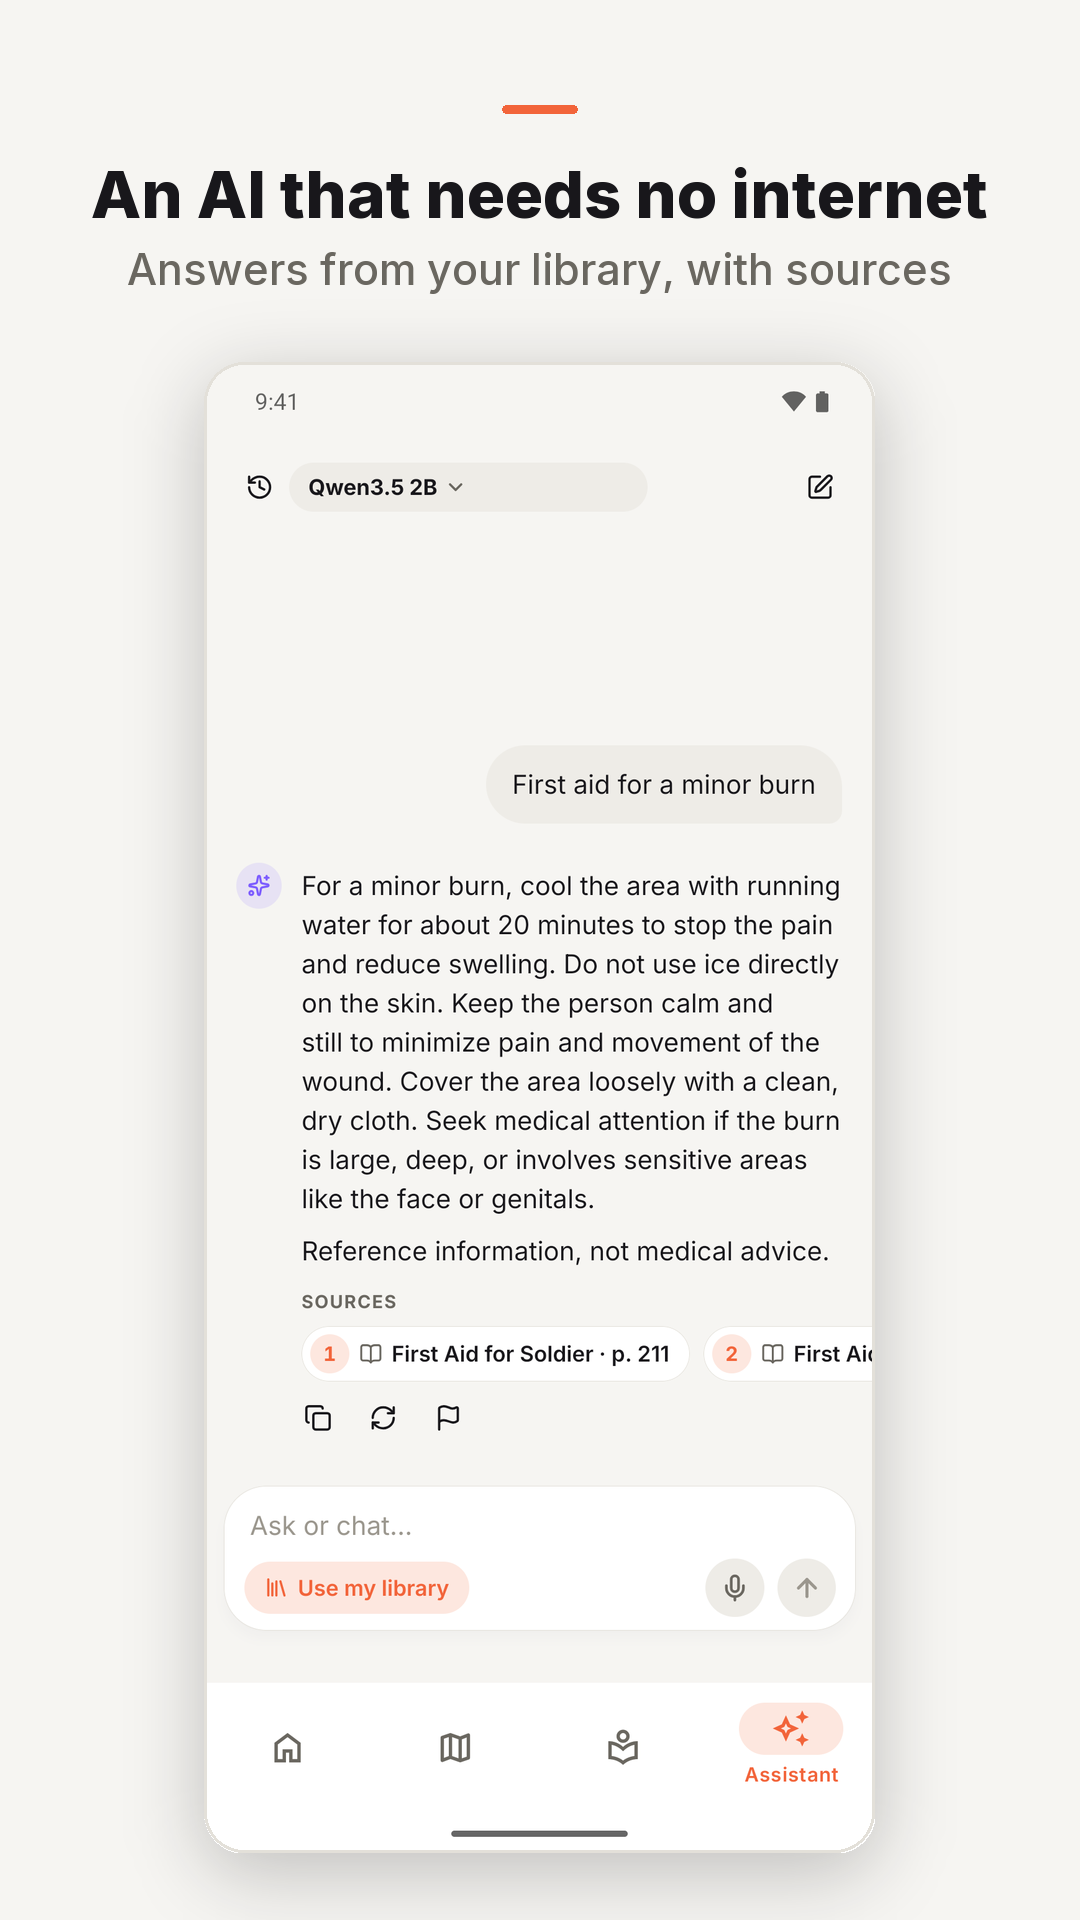
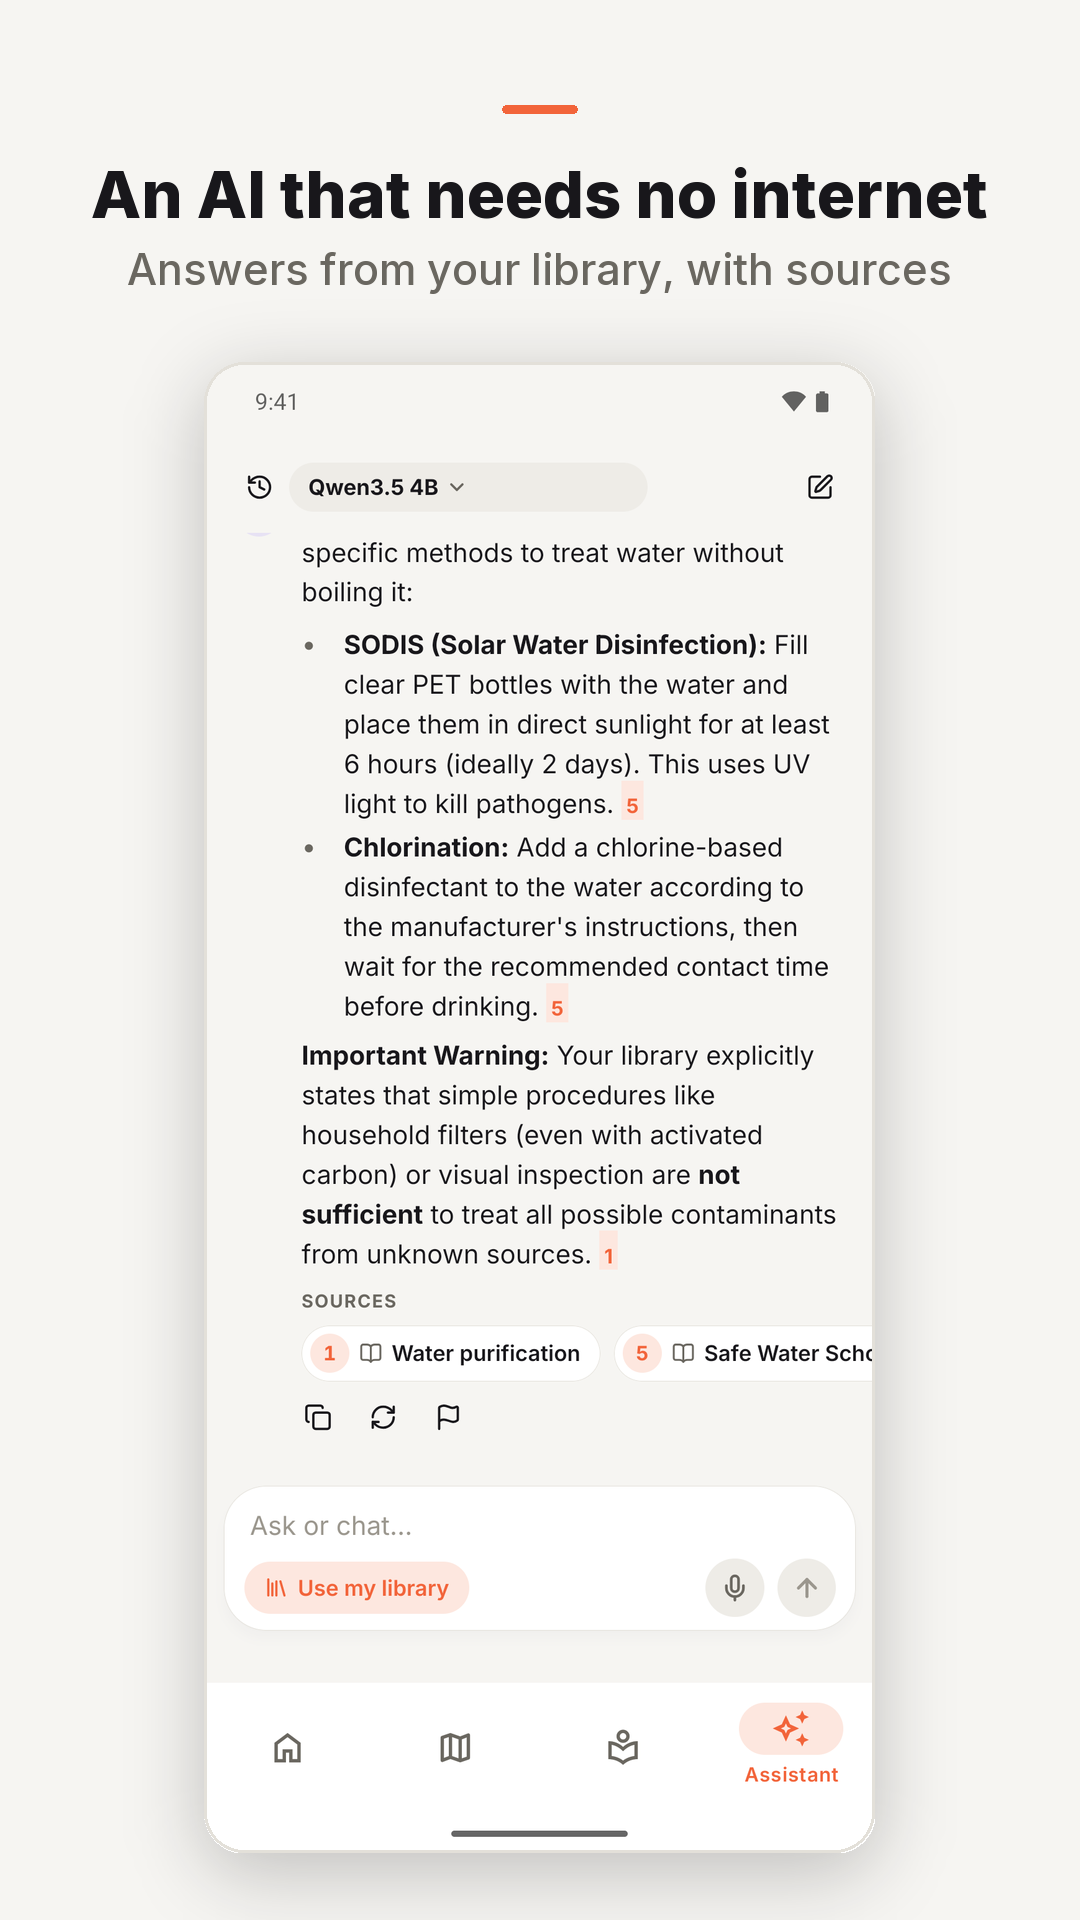
Android: no-health assistant stops refusing water questions; listing redone
Shooting the Play screenshots showed the no-health prompt made the model refuse
water questions or add "consult a doctor", and the empty assistant screen still
told users to see a professional about health. The prompt now forbids only
medical treatment and first-aid steps and names water, food, shelter, fire and
hygiene as non-health topics; the empty screen has a disclaimer without health.
isHealthQuestion also catches emergencies that name no condition ("me he
cortado", "swallowed bleach", fainting, choking...), so those get the fixed
answer instead of improvised first aid.

Also: Android screenshots without first aid (survival guide, water answer,
library and kit without medicine), Android captions in store-screenshots.py,
and the redone Play forms (Health apps none, PEGI 3, audience 13+) in the docs.

diff --git a/src/features/assistant/rag-core.ts b/src/features/assistant/rag-core.ts
@@ -853,8 +853,8 @@ export function noHealthAnswer(lang: Lang, emergencyNumber: string): string {
 
 /** The same rule for whatever the question check misses (a follow-up like "and if it's serious?"). */
 const NO_HEALTH_NOTE: Record<Lang, string> = {
-  es: 'No des consejos de salud, medicina ni primeros auxilios: si te los piden, di solo que en esta versión no respondes preguntas de salud.',
-  en: "Don't give health, medical or first-aid advice: if asked, only say that in this version you don't answer health questions.",
+  es: 'No des tratamientos médicos ni pasos de primeros auxilios (heridas, enfermedades, medicamentos): si te los piden, di solo que en esta versión no respondes preguntas de salud. El agua, la comida, el refugio, el fuego y la higiene no son temas de salud: respóndelos con normalidad, sin avisos de salud ni consejos de ir al médico.',
+  en: "Don't give medical treatment or first-aid steps (injuries, illness, medicines): if asked, only say that in this version you don't answer health questions. Water, food, shelter, fire and hygiene are not health topics: answer them normally, with no health warnings and no advice to see a doctor.",
 };
 
 const HEALTH_TERMS = [
@@ -862,6 +862,14 @@ const HEALTH_TERMS = [
   'fractur', 'envenen', 'intoxic', 'auxilio', 'sintom', 'infecc', 'dosis', 'pastill', 'embaraz', 'alergi',
   'health', 'medical', 'medicine', 'injur', 'wound', 'burn', 'bleed', 'pain', 'fever', 'hypotherm', 'bite',
   'sting', 'fractur', 'poison', 'first aid', 'symptom', 'infect', 'dose', 'pill', 'pregnan', 'allerg', 'cpr', 'rcp',
+  // Emergencies that name no condition ("me he cortado", "swallowed bleach"): without health features these must
+  // get the fixed answer, not the model's improvised first aid.
+  'tragad', 'ingeri', 'desmay', 'inconscien', 'atragant', 'asfixi', 'vomit', 'diarrea', 'nausea', 'infarto', 'ictus',
+  'convulsi', 'esguince', 'torniquete', 'vendaj', 'antibiot', 'paracetamol', 'ibuprofen', 'insulin', 'diabet',
+  'conmocion', 'me he cortado', 'me corte', 'se ha cortado', 'se corto', 'golpe de calor',
+  'swallow', 'unconscious', 'fainted', 'fainting', 'choking', 'diarrh', 'nause', 'heart attack', 'seizure', 'sprain',
+  'concussion', 'tourniquet', 'bandag', 'aspirin', 'cut myself', 'cut my finger', 'cut my hand', 'heatstroke',
+  'heat stroke',
 ];
 
 /** Words a health term starts but that aren't about health ("paint", "medición", "carne picadilla"). */

diff --git a/src/features/assistant/rag-core.test.ts b/src/features/assistant/rag-core.test.ts
@@ -326,6 +326,13 @@ describe('system prompt', () => {
     assert.equal(isHealthQuestion('What should I do after a snake bite?'), true);
     assert.equal(isHealthQuestion('Explícame la fotosíntesis'), false);
     assert.equal(isHealthQuestion('An interesting fact about Spain'), false);
+    assert.equal(isHealthQuestion('Me he cortado un dedo con un cuchillo, ¿qué hago?'), true);
+    assert.equal(isHealthQuestion('My kid swallowed some bleach, what should I do?'), true);
+    assert.equal(isHealthQuestion('Se ha desmayado mi padre'), true);
+    assert.equal(isHealthQuestion('¿Cómo potabilizo agua sin hervirla?'), false);
+    assert.equal(isHealthQuestion('How do I make water safe to drink without boiling it?'), false);
+    assert.equal(isHealthQuestion('¿Cómo me preparo para un vendaval?'), false);
+    assert.equal(isHealthQuestion('¿Cómo corto leña sin hacha?'), false);
     assert.match(systemPrompt('es', 'chat', { health: true }), /no consejo médico/);
     assert.doesNotMatch(systemPrompt('es', 'chat'), /consejo médico/);
     assert.match(systemPrompt('en', 'sources'), /\[1\]/);

diff --git a/src/app/(tabs)/assistant/index.tsx b/src/app/(tabs)/assistant/index.tsx
@@ -124,7 +124,7 @@ export default function AssistantScreen() {
             ))}
           </View>
           <Text variant="caption" color="textTertiary" align="center" style={{ maxWidth: 320, alignSelf: 'center' }}>
-            {t('empty.disclaimer')}
+            {t(HEALTH_FEATURES ? 'empty.disclaimer' : 'empty.disclaimerNoHealth')}
           </Text>
         </ScrollView>
       ) : (

diff --git a/scripts/store-screenshots.py b/scripts/store-screenshots.py
@@ -58,8 +58,25 @@ MAP_SHOTS = ('route', 'emergency')
 OSM_CREDIT = {'es': 'Mapa © colaboradores de OpenStreetMap', 'en': 'Map © OpenStreetMap contributors'}
 
 
-def caption_for(lang: str, name: str):
-    for key, text in CAPTIONS[lang].items():
+# Google Play: the Android build has no health features (src/lib/health.ts), so no first aid, medicine
+# or medical details; its 04 screen is a survival guide instead of first aid.
+ANDROID_CAPTIONS = {
+    'es': {
+        'guides': ('Guías de supervivencia, sin red', 'Agua, refugio, nudos y mucho más'),
+        'plan': ('Tu plan familiar, a mano', 'Puntos de encuentro, contactos y números clave'),
+        'library': ('Todo el conocimiento, sin red', 'Wikipedia, supervivencia, bricolaje y más'),
+    },
+    'en': {
+        'guides': ('Survival guides, offline', 'Water, shelter, knots and much more'),
+        'plan': ('Your family plan, at hand', 'Meeting points, contacts and key numbers'),
+        'library': ('All the knowledge, no network', 'Wikipedia, survival, DIY and more'),
+    },
+}
+
+
+def caption_for(lang: str, name: str, device: str):
+    captions = {**CAPTIONS[lang], **ANDROID_CAPTIONS[lang]} if device == 'android' else CAPTIONS[lang]
+    for key, text in captions.items():
         if key in name:
             return text
     raise SystemExit(f'No caption for {lang}/{name}')
@@ -87,7 +104,7 @@ def compose(src: Path, dst: Path, lang: str, device: str):
     W, H = SIZES[device]
     canvas = Image.new('RGB', (W, H), BG)
     draw = ImageDraw.Draw(canvas)
-    title, sub = caption_for(lang, src.stem)
+    title, sub = caption_for(lang, src.stem, device)
 
     margin = int(W * 0.08)
     top = int(H * 0.055)

diff --git a/docs/store/play-listing.md b/docs/store/play-listing.md
@@ -80,33 +80,33 @@ emulator (Android tour, `docs/E2E.md`).
 | App access | All functionality is available without special access (no sign-in) |
 | Ads | No ads |
 | Content rating (IARC) | See "Content rating" below. Original draft: category "Reference, News, or Educational". Violence, sex, language, controlled substances, gambling: no. Users interact or exchange content: no. Shares the user's location with other users: **yes** (the "Share my position" button sends it by message, only when the user taps it). Unrestricted internet access: no (archive pages are offline; external links ask first). Digital purchases: no. Generative AI: yes, on-device (answer the AI questions if the form shows them) |
-| Target audience | 18 and over (13+ first, then 18+ to match the PEGI 18 below; back to 13+ if the rating comes down) |
+| Target audience | 13 and over (13–15, 16–17, 18+). It was 18+ while the rating was PEGI 18; back to 13+ with the PEGI 3 rating of 2026-10-29 |
 | News app | No |
 | COVID-19 contact tracing / status | No |
 | Data safety | see below |
 | Government app | No |
 | Financial features | None |
-| Health apps | **"My app doesn't provide any health features"** (from 1.1.0 (25), the build without them). The first submission declared "Emergency and First Aid" and "Medical Reference and Education" and was rejected on 2026-10-29: those categories need an organization account. Play support (ticket of 2026-10-29) said what to remove; `src/lib/health.ts` turns it off on Android |
+| Health apps | **"My app doesn't provide any health features"** (from 1.1.0 (26), the build without them). The first submission declared "Emergency and First Aid" and "Medical Reference and Education" and was rejected on 2026-10-29: those categories need an organization account. Play support (ticket of 2026-10-29) said what to remove; `src/lib/health.ts` turns it off on Android |
 | Actions / foreground services | None declared (the manifest has no foreground service, no exact alarms, no background location) |
 
-## Content rating (as submitted, 2026-10-29)
+## Content rating (2026-10-29, build without health features)
 
 Category "Todos los demás tipos de aplicaciones" (the questionnaire has no reference category). Package
-content: no. Users exchange content: no. Online content (downloaded archives, AI answers): yes. Violence:
-yes, not the main purpose, visual and gory (injury photos in the medical guides), in text. Sexuality: no
-(encyclopedic nudity is "natural or scientific context", which the question excludes). Language: yes (mild,
-moderate, discriminatory and sexual words quoted in encyclopedia articles), not the main purpose. Drugs: yes,
-text only. Age-restricted products: no. Shares location with other users: yes. Digital purchases, rewards,
-browser: no. Primarily informational/educational: yes.
+content: no. Users exchange content: no. Online content (downloaded archives, AI answers): yes. Violence,
+sexuality, language, controlled substances, age-restricted products: no. Shares location with other users:
+yes. Digital purchases, rewards, browser: no. Primarily informational/educational: yes.
 
-Result: ClassInd L, ESRB 10+, **PEGI 18**, USK 12, IARC generic 18+, Russia 18+, Korea 19. The first,
-literal questionnaire (sexuality yes, drug images yes) gave the same. Gory images and discriminatory language
-are what PEGI rates 18. Kiwix and Wikipedia (same content) are PEGI 3 on Play, but Google's help has no
-exception for reference content ("specific to the content within your app"; misrepresentation can lead to
-removal). Owner's decision: keep PEGI 18 with an 18+ audience and ask IARC (globalratings.com/contact-us) how
-to rate a reader of downloadable encyclopedias and medical guides; redo the questionnaire if they allow it. **Asked on 2026-10-29** through the
-IARC general contact form (600-character limit; the answer goes to the owner's email). If there's no answer in
-~2 weeks, ask PEGI (pegi.info), which the IARC page lists for questions about a specific rating.
+Result: **PEGI 3**, ESRB Everyone, with "shared location" as the interactive element.
+
+Why "no" to violence, language and drugs: the only content the app ships is its own UI; what users download is
+third-party reference content (Wikipedia and other Kiwix archives), described in text the way an encyclopedia
+describes it. Kiwix and Wikipedia, which offer the same content, are PEGI 3 on Play; the owner chose to rate it
+the same way. The injury photos of the medical guides, which gave the first submission PEGI 18 (gory images),
+are out of the Android build.
+
+First submission (2026-10-29, with health features): violence yes (gory, injury photos), language yes
+(discriminatory words quoted in articles), drugs in text: ClassInd L, ESRB 10+, PEGI 18, USK 12, IARC 18+.
+The question to IARC sent that day (globalratings.com/contact-us) is moot now unless they answer otherwise.
 
 ## Data safety
 
@@ -152,8 +152,8 @@ To bring them back on Android: an organization account (D-U-N-S), the Health app
 `HEALTH_FEATURES` true on Android in a new release. Never through a remote switch: Play forbids features
 turned on after review that the declarations don't list.
 
-With the medical guides gone the content rating may come down (PEGI 18 came from their injury photos):
-redo the questionnaire with the build without health features.
+With the medical guides gone the content rating was redone: PEGI 3 ("Content rating" above).
 
-Screenshots to redo for Android: home (first-aid shortcut), first aid (replace), assistant (a burn
-question), library (medicine category); the plan's caption says "datos médicos".
+Android screenshots redone on 2026-10-29 (home, a survival guide instead of first aid, the assistant answering the
+water starter, library and kit without medicine; Android captions in `scripts/store-screenshots.py`) and uploaded to
+both listings.

diff --git a/docs/PROGRESS.md b/docs/PROGRESS.md
@@ -42,7 +42,7 @@ can pick up without re-deriving anything.
 | Maps road routing on the device (Valhalla, plan phase 2): packs, catalog, downloads, route guidance | done — iOS sim + Android emulator (Andorra pack); 237 packs live (every inhabited country; the USA in six regions) since 2026-10-27; E2E vs the live catalog on iOS + Android |
 | Maps turn-by-turn (voice, background location; plan phase 3) | planned |
 | Assistant (Apple Intelligence / 4 GGUF models, RAG with citations, conversational: the model decides when to search; the most capable installed model is the default; on-device dictation; reads the PDFs inside archives (document index) and the family plan; copy and regenerate an answer) | done — iOS sim (Apple FM + llama.cpp), Android emulator (llama.cpp, before the conversational change). Android: no system model (ML Kit removed 2026-10-26), downloadable models only |
-| Store (listing, screenshots, privacy site, in-app disclaimers) | done for iOS; Android: app created in Play Console, App content forms done (PEGI 18, see `docs/store/play-listing.md`), 1.1.0 (23) on internal testing, Android screenshots and en-US listing done, 1.1.0 (24) for the closed test **rejected** 2026-10-29 (health apps need an organization account): Android now ships without health features, resubmit as 1.1.0 (25); then 12 testers × 14 days and production |
+| Store (listing, screenshots, privacy site, in-app disclaimers) | done for iOS; Android: app created in Play Console, App content forms done (PEGI 3 since 2026-10-29, see `docs/store/play-listing.md`), 1.1.0 (23) on internal testing, Android screenshots and en-US listing done, 1.1.0 (24) for the closed test **rejected** 2026-10-29 (health apps need an organization account): Android now ships without health features; listing, screenshots, Health apps and content rating redone, resubmit as 1.1.0 (26); then 12 testers × 14 days and production |
 | Preparedness (family plan, emergency kit with expiry reminders, printable PDF, offline guides) | done — iOS sim + Android emulator (E2E) |
 | E2E suite (Maestro) + pre-commit hook | done |
 | Pre-release audit (2026-10-26): ~60 verified findings fixed in code and docs | merged to main; device checks and the deferred items below pending |
@@ -303,6 +303,23 @@ U. **UX redesign and country packages** (`docs/UX_SURVIVAL_PLAN.md`, `docs/COUNT
 Build gotchas moved to `docs/DEVELOPMENT.md`.
 
 ## Log
+
+### 2026-10-29 — Android: Play listing redone without health; build 26 tightens the assistant
+
+- Play Console: Health apps declaration "no health features"; es-ES and en-US descriptions without first aid or
+  medical details; the 8 Android phone screenshots of each language redone on the versionCode 25 APK (home with
+  survival guides, a survival guide instead of first aid, the water starter answered by Qwen3.5 4B, library and
+  kit without medicine). Content rating redone: violence, language and drugs "no", as Kiwix and Wikipedia rate the
+  same content (owner's decision) → **PEGI 3**, ESRB Everyone; target audience back to 13+. All saved, not sent.
+- Seen while shooting: the no-health prompt made the model refuse water questions or add "consult a doctor", and
+  the assistant's empty screen still said "for health questions, consult a professional". Fixed for versionCode
+  26: the prompt now forbids only medical treatment and first-aid steps and says water, food, shelter, fire and
+  hygiene aren't health topics (Qwen3.5 4B on the Mac, 3 runs per question: clean water answers in es and en, where
+  the old prompt appended a refusal); `empty.disclaimerNoHealth`; `isHealthQuestion` also catches emergencies that
+  name no condition ("me he cortado", "swallowed bleach", fainting, choking, seizures…), which the model answered
+  with improvised first aid once in 3 runs with the old prompt.
+- Known: an update from 23/24 (internal testers only) keeps medical archives already installed; they stay readable
+  under the "not medical advice" banner. Fresh installs (Play's reviewers, closed testers) never see them.
 
 ### 2026-10-29 — Android without health features (Play rejected the closed test)
 

diff --git a/docs/RELEASE.md b/docs/RELEASE.md
@@ -26,7 +26,7 @@ Everything lives in `app.json`; `ios/` and `android/` get it from `npx expo preb
   `version` equal (not used by the build, but it's what people read).
 - iOS build number: `expo.ios.buildNumber` (currently **"23"**) → `CFBundleVersion`. Bump it
   for every upload: App Store Connect rejects a build number it has already seen.
-- Android: `expo.android.versionCode` (currently **25**: 23 and 24 went to Play internal testing, 24 to the rejected closed test; 25 is the build without health features). Must grow
+- Android: `expo.android.versionCode` (currently **26**: 23 and 24 went to Play internal testing, 24 to the rejected closed test; 25 is the build without health features, superseded before review; 26 adds the assistant's no-health fixes). Must grow
   with every Play upload.
 - After changing any of them, run `npx expo prebuild` (it can regenerate `ios/` and
   `android/` from scratch: then `cd ios && pod install`).
